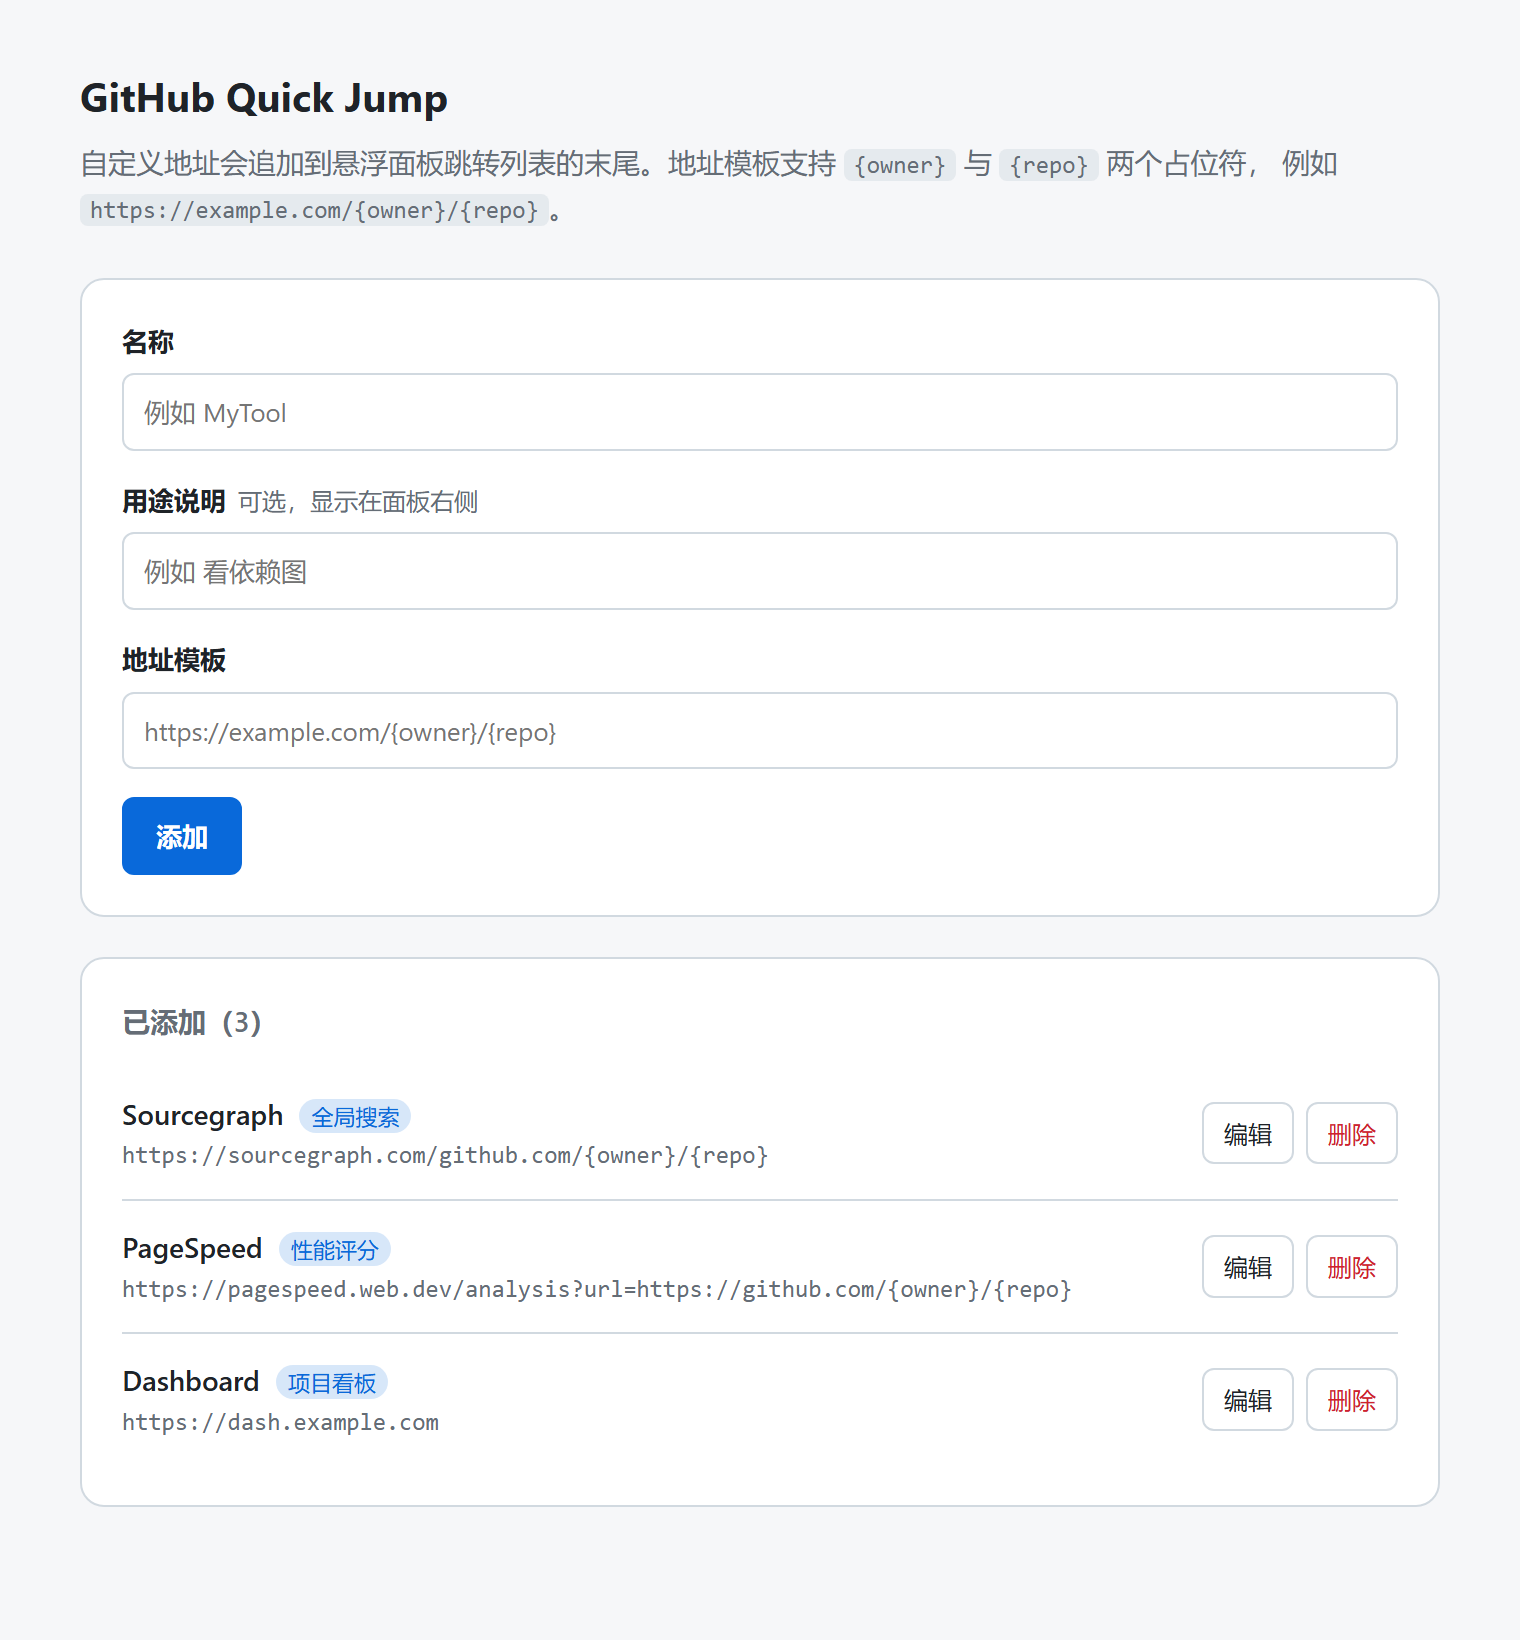
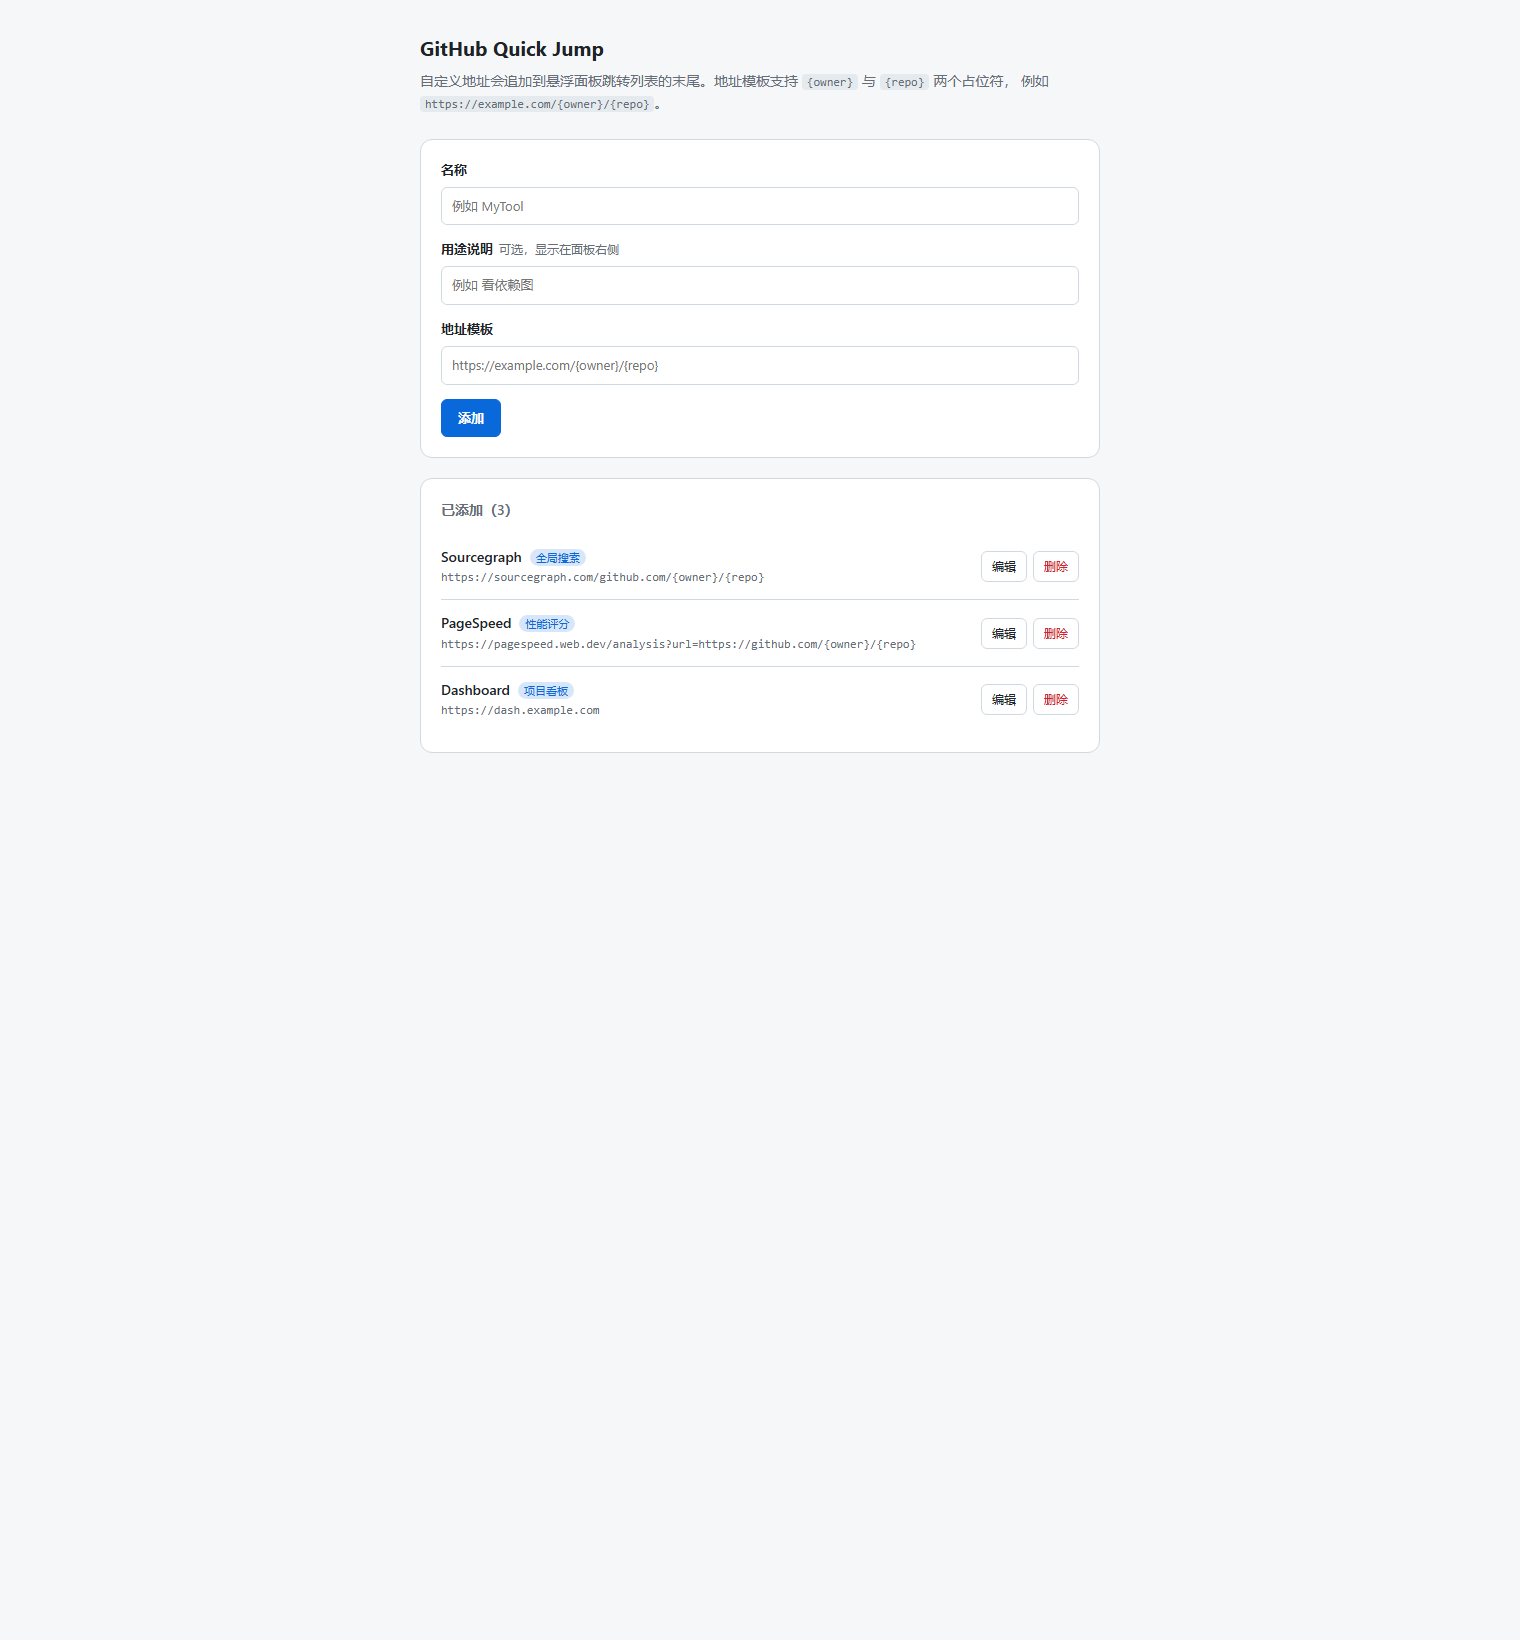
docs: 同步文档、商店截图与设计文档变更记录
- README：技术要点改述新的路由监听方案并说明为什么不能 patch history；
  新增工具栏入口说明；目录结构与打包清单补上 popup 页面；已知限制补上
  软导航最坏 1 秒延迟；新增商店截图一节
- PRIVACY：补充工具栏弹窗不读取、不上传任何数据
- 设计文档：新增 §11 变更记录，逐条说明 1.2.0 相对原设计的偏离与原因
- 重新渲染 docs/images/panel.png 与 options.png（旧图里还是 Octocat 图标）
- 新增两张 1280x800 商店截图，由真实 content.js / options.html 渲染

diff --git a/README.md b/README.md
@@ -12,6 +12,7 @@
 - **当前项置灰**：所在站点的对应项标「当前」并禁用，避免误点重复跳转
 - **可拖动**：按钮可拖到屏幕任意高度，松手后吸附最近的左/右边缘，位置自动记住
 - **自定义地址**：在选项页自行添加跳转地址，支持 `{owner}` / `{repo}` 占位符
+- **工具栏入口**：点工具栏图标即可打开自定义地址页，不用去扩展管理页里翻
 
 ## 效果
 
@@ -61,7 +62,7 @@
 
 ## 自定义地址
 
-在 `chrome://extensions` 的扩展详情页点「扩展程序选项」打开选项页，可以增删改自定义跳转地址：
+点工具栏上的扩展图标，在弹窗里点「管理自定义地址」进入选项页；也可以从 `chrome://extensions` 的扩展详情页点「扩展程序选项」进入。在选项页可以增删改自定义跳转地址：
 
 | 字段 | 必填 | 说明 |
 | --- | --- | --- |
@@ -81,6 +82,8 @@
 github-quick-jump/
 ├── manifest.json           # Manifest V3 声明
 ├── content.js              # 全部注入逻辑（含 Shadow DOM 样式）
+├── popup.html              # 工具栏弹窗（只负责进入选项页）
+├── popup.js
 ├── options.html            # 自定义地址管理页
 ├── options.js
 ├── icons/
@@ -130,19 +133,20 @@ python icons/render_icons.py
 node scripts/package.js
 ```
 
-产物为 `dist/github-quick-jump.zip`，只包含 `manifest.json`、`content.js`、`options.html`、`options.js`、`icons/` 下的 4 个图标。不包含 README、隐私政策、文档与测试文件。纯 node 实现、无第三方依赖，跨平台可用。
+产物为 `dist/github-quick-jump.zip`，只包含 `manifest.json`、`content.js`、`popup.html`、`popup.js`、`options.html`、`options.js`、`icons/` 下的 4 个图标。不包含 README、隐私政策、文档与测试文件。纯 node 实现、无第三方依赖，跨平台可用。
 
 上传商店时：
 
 - **隐私政策**字段填写 [PRIVACY.md](PRIVACY.md) 的公开地址（例如本仓库该文件在 GitHub 上的渲染页面）
 - 商店会校验 zip 里的 `manifest.json` 与图标，脚本已确保文件齐全
+- **截图**：商店要求 1280x800 或 640x400。仓库里已备好两张 1280x800 的图：`docs/images/store-panel-1280x800.png`（悬浮面板）与 `docs/images/store-options-1280x800.png`（选项页）。它们是用无头 Chrome 渲染真实 `content.js` / `options.html` 得到的；换成你自己装好扩展后在真实 GitHub 页面上的截图效果更好
 
 ## 技术要点
 
 - **Manifest V3**，纯 content script 注入，不使用 background service worker
 - **Shadow DOM 隔离样式**，GitHub 改版不会带崩按钮与面板外观
 - **URL 反解析**：按域名从 URL 反推 `owner/repo`，跳转模板与反解析互为逆运算，因此在任一站点上都能解析出仓库
-- **SPA 路由监听**：patch `history.pushState` / `replaceState` 并监听 `popstate`，页面内跳转时重新解析
+- **SPA 路由监听**：GitHub 是 Turbo 单页应用，站内跳转不重载文档。这里**不用** patch `history.pushState` —— content script 跑在隔离世界，和页面各持独立的 `window` 包装对象，改写 `pushState` 拦不到页面自己的调用（已用 CDP 实测确认）。改用三条互补信号：`MutationObserver` 观察 `documentElement` 子节点变化（Turbo 每次渲染都整体替换 `<body>`，这既是路由变化信号，也是宿主元素被摘掉的信号）、`popstate` 覆盖前进后退、1 秒轮询兜底只改 URL 的情况
 - **不可信输入处理**：渲染前一律清洗 `chrome.storage.sync` 里的自定义地址，丢弃非 http(s) 模板，跳转链接始终带 `rel="noopener noreferrer"`
 
 ## 已知限制
@@ -150,6 +154,7 @@ node scripts/package.js
 - 只支持 Chrome / Edge（Manifest V3），未做 Firefox 兼容
 - 不校验仓库是否存在，私有或不存在的仓库会直接拼接地址，由第三方服务返回 404
 - 自定义地址的排序、分组、启用开关未做，编辑只能在选项页进行
+- 站内软导航靠 DOM 变化与轮询识别，只改 URL 不换 DOM 的情况最坏有 1 秒延迟
 
 ## 隐私
 

diff --git a/docs/superpowers/specs/2026-09-30-github-quick-jump-design.md b/docs/superpowers/specs/2026-09-30-github-quick-jump-design.md
@@ -235,3 +235,20 @@ node tests/verify-custom.js
 15. 在选项页编辑该条并保存，回到仓库页确认面板同步更新；再删除该条，确认面板中消失
 16. 添加一条模板为 `javascript:alert(1)` 的地址，确认表单报错、无法保存
 17. 连续添加 8 条以上自定义地址，确认面板在视口内且可内部滚动（按钮贴近屏幕顶部与底部各试一次）
+
+## 11. 变更记录
+
+### 1.2.0
+
+上架前复查发现并修正的问题：
+
+1. **`watchRoute` 原实现无效**（对应 §5 与 §9 中「SPA 路由」相关条目）。原方案 patch `history.pushState` / `replaceState`，但 content script 运行在隔离世界，与页面各自持有独立的 `window` 包装对象：在隔离世界里改写 `pushState` 只对隔离世界自己发出的调用生效，拦不到页面（Turbo）自己发出的调用。已在本机用 CDP 的 `Page.createIsolatedWorld` 复现确认（隔离世界内自调 `pushState` 命中改写，主世界调用则不命中，而 URL 确实变化）。
+   改为三条互补信号：`MutationObserver` 观察 `documentElement` 的子节点变化（Turbo 每次渲染整体替换 `<body>`，既是路由变化信号，也是宿主元素被摘掉的信号）、`popstate` 覆盖前进后退、1 秒轮询兜底只改 URL 不换 DOM 的软导航。
+
+2. **打包脚本 ZIP 本地文件头字段偏移写错**。`scripts/package.js` 把「压缩方式」写到了 offset 6（该处实为通用位标志），导致生成的 zip 本地头是 `FLAG=8 / METHOD=0`，而中央目录是 `FLAG=0 / METHOD=8`，与实际 deflate 数据不符。`.NET` / `Expand-Archive` 因读中央目录而能解出，但 `bsdtar` 会失败。已修正为 offset 8。
+
+3. **图标替换**。原图标是 GitHub 官方 Octocat 标志，扩展名也含 GitHub，存在商店「冒名与知识产权」政策风险。改为原创的跳跃箭头图形（`icons/icon.svg` 与 content.js 中的 `MARK_SVG`）。
+
+4. **新增工具栏入口**（§2 原「不做」项）。上架后面向普通用户时，选项页只能从扩展管理页进入，可发现性太差。新增 `action` + `popup.html` / `popup.js`，弹窗内一个按钮进入选项页。
+
+5. **可访问性与细节**：面板去掉不完整的 `role="menu"` / `role="menuitem"`（未实现方向键导航，ARIA menu 模式不完整），改为「按钮 + 链接列表」的 disclosure 模式，`aria-expanded` / `aria-controls` / `aria-current` 保留；面板高度测量抽成 `layoutPanel()`，自定义地址变化重绘面板时会重新测量，避免项变多后溢出视口。

diff --git a/PRIVACY.md b/PRIVACY.md
@@ -34,6 +34,8 @@
 
 本扩展在 `manifest.json` 中声明了唯一权限 `storage`，仅用于读写上面表格中的两项本地设置。扩展没有网络权限（`host_permissions`），因此**无法访问任何外部网络**；它仅作为 content script 运行在声明允许的页面上，用于注入悬浮按钮。
 
+工具栏弹窗（点击扩展图标打开）只包含一个跳转到选项页的按钮，不读取、不展示、不上传任何数据，也不需要额外权限。
+
 ## 合规提示（Chrome 网上应用店）
 
 如果你将本扩展上传到 Chrome 网上应用店，需要把商店要求的"隐私政策"字段指向本文件的公开地址（例如本仓库的 `PRIVACY.md` 在 GitHub 上的渲染页面）。
